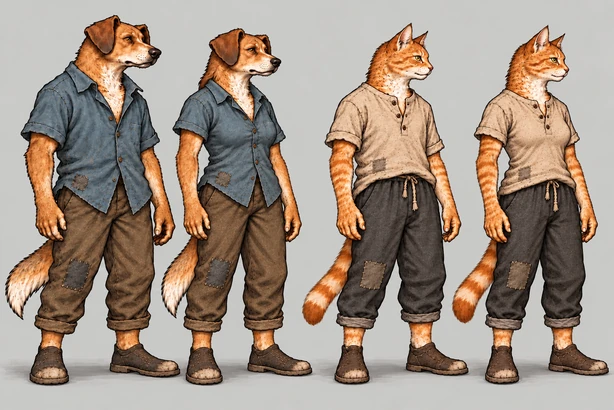
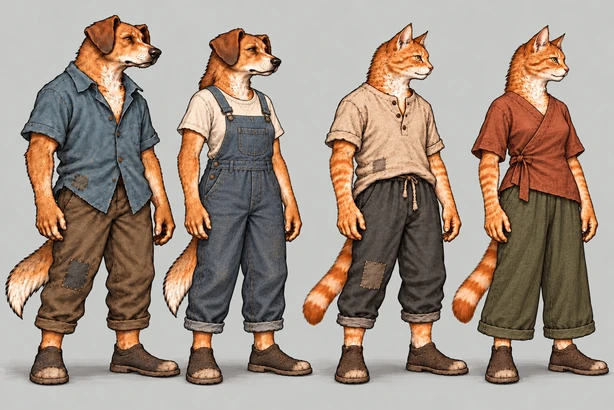
Diferencia as roupas femininas dos recrutas no lobby Refs #243

diff --git a/docs/design/lobby_outfits.md b/docs/design/lobby_outfits.md
@@ -1,7 +1,8 @@
 # Roupas confortáveis do lobby — proposta #243
 
 **Lucas aprovou os figurinos dos quatro fundadores e dos seis recrutas após a correção dos braços das corujas.**
-As seis versões femininas abaixo são um complemento novo, ainda aguardando aprovação antes das poses delas.
+As seis versões femininas abaixo têm **roupas próprias**, conforme o novo pedido do Lucas, e ainda aguardam
+aprovação antes das poses delas.
 Este PR continua sendo de conceito; não integrar as pranchas como sprites.
 
 A pedido do Lucas em 28/10/2026, o estudo de paletas foi cancelado (#242, #239 e PR #240). Esta proposta muda o
@@ -62,8 +63,9 @@ variações de pelagem neste pacote.
 ## Recrutas: versões femininas para aprovação
 
 Lucas autorizou uma versão feminina para cada um dos seis tipos de recruta. Os modelos atuais são a referência
-masculina nas comparações. Os figurinos já aprovados permanecem; as diferenças novas estão na face, na silhueta
-e no caimento da roupa, não em uma simples troca de cor.
+masculina nas comparações. Os figurinos masculinos já aprovados permanecem. Lucas pediu que as versões femininas usem **peças diferentes**,
+não apenas as mesmas roupas ajustadas ao corpo. A revisão atual muda a construção e a silhueta do vestuário,
+além dos traços do personagem. Não é um seletor de cores.
 
 Todas são personagens adultas. Cão, gato, Guaxinim e Tatu podem ter busto discreto sob tecido opaco e uma silhueta
 diferente de ombros/quadril, preservando a espécie e a robustez de cada corpo. Sapo e coruja usam outros traços de
@@ -72,6 +74,15 @@ universais das espécies.
 
 Não acrescentar equipamento de expedição, joias, maquiagem ou cabelo humano como atalho. As corujas precisam manter
 braços articulados e mãos visíveis. Os dois sexos usam roupa igualmente prática e confortável.
+
+| Versão feminina | Roupa própria nesta revisão | Diferença em relação ao macho |
+| --- | --- | --- |
+| Cão | Jardineira índigo folgada sobre camiseta clara | Peitoral e alças de tecido no lugar da camisa azul abotoada |
+| Gato | Blusa cruzada terracota e calça oliva de pernas largas | Fechamento lateral e caimento amplo no lugar da camiseta de botões |
+| Sapo | Túnica sálvia até meia coxa com aberturas laterais e bermuda escura | Comprimento e combinação de peças diferentes da camisa ferrugem e calça curta |
+| Coruja | Blusa sem gola ameixa desbotada e calça clara ampla até meia canela | Uma blusa leve, sem o colete do macho |
+| Guaxinim | Colete ocre simples sobre camiseta clara e calça carvão | Sobreposição leve no lugar da camisa oliva |
+| Tatu | Blusa azul sem gola e calça bege ampla abaixo do joelho | Frente abotoada, mangas e pernas com comprimentos diferentes da camiseta ocre |
 
 Cada prancha traz dois pares: **macho à esquerda, fêmea à direita**, depois o segundo par na mesma ordem.
 
@@ -191,7 +202,7 @@ iniciais, já aprovados pelo Lucas.
 - **Média, `frog_owl_variants.webp`:** ainda havia sombreamento arredondado duplo na camisa da sapo. Corrigir
   apenas a frente da camisa para um caimento reto e solto, sem sugerir seios. Braços/mãos das corujas corretos.
 
-### Rodada 3 — VEREDITO: APROVADO para revisão de figurino
+### Rodada 3 — APROVADO técnico do desenho anterior, substituído pelo novo pedido de roupa
 
 Conferidos seis pares com mãos/pés completos, roupa confortável sem equipamento e identidades de espécie;
 corujas com braços articulados e mãos visíveis; sapo/coruja sem seios, com a frente da camisa da sapo reta e solta.
@@ -204,13 +215,33 @@ na ilustração são aproximadas, não valores para integração. O aceite artí
 
 Não foram produzidos ataques, retratos novos ou poses de trabalho, sentado ou deitado destas variações.
 
+## Revisão: roupas femininas próprias
+
+Após ver a r3, Lucas pediu roupas diferentes. A aprovação técnica anterior não é aprovação artística das fêmeas;
+esta revisão substitui aquelas propostas nas três comparações. As peças novas estão na tabela do complemento.
+
+### Rodada 1 — VEREDITO: APROVADO para revisão de figurino
+
+Conferidas as três comparações em tamanho normal, reduzidas a 40% e em cinza: jardineira versus camisa;
+blusa cruzada versus camiseta de botões; túnica/bermuda versus camisa/calça; blusa sem colete versus conjunto
+com colete; colete/camiseta versus camisa; blusa abotoada/calça ampla curta versus camiseta/calça comprida.
+As diferenças são estruturais, não dependem de cor. Mantidos os braços articulados e mãos das corujas, os
+pés/caudas visíveis e a roupa leve sem equipamento de missão. Sem problemas altos ou médios no conceito.
+
+Seis PNG e 21 WebP com formato/dimensões/hash conferidos. Os três conceitos iniciais aprovados permanecem
+idênticos à r2. O aceite artístico do Lucas para as seis roupas femininas continua pendente.
+
+Critérios adicionais: cada fêmea precisa ter uma combinação de peças/cortes própria, distinguível em cinza e a
+40%, mantendo conforto, braços/mãos das corujas e a anatomia de cada espécie. Nenhuma pose nova nesta revisão.
+
 ## Fontes e pranchas pequenas
 
-As imagens PNG de conceito ficam fora da main, na tag `codex-pr244-originals-r3`, pasta
-`art/combat/source/lobby_outfits_20261028/`: [Release](https://github.com/lucasyemz/after-humans-godot/releases/tag/codex-pr244-originals-r3) e
-[ZIP](https://github.com/lucasyemz/after-humans-godot/archive/refs/tags/codex-pr244-originals-r3.zip). Nenhum desses PNG é origem
-pronta para conversão direta em pose do jogo. As tags anteriores `codex-pr244-originals` e `codex-pr244-originals-r2` permanecem como histórico;
-a revisão r3 acrescenta o complemento feminino sem reescrever os originais aprovados.
+As imagens PNG de conceito ficam fora da main, na tag `codex-pr244-originals-r4`, pasta
+`art/combat/source/lobby_outfits_20261028/`: [Release](https://github.com/lucasyemz/after-humans-godot/releases/tag/codex-pr244-originals-r4) e
+[ZIP](https://github.com/lucasyemz/after-humans-godot/archive/refs/tags/codex-pr244-originals-r4.zip). Nenhum desses PNG é origem
+pronta para conversão direta em pose do jogo. As tags anteriores, até `codex-pr244-originals-r3`, permanecem como
+histórico. A r4 troca apenas as três comparações femininas pelas propostas de roupas próprias, preservando
+os três conceitos iniciais aprovados.
 
 | Grupo | 40% | Cinza a 40% |
 | --- | --- | --- |
